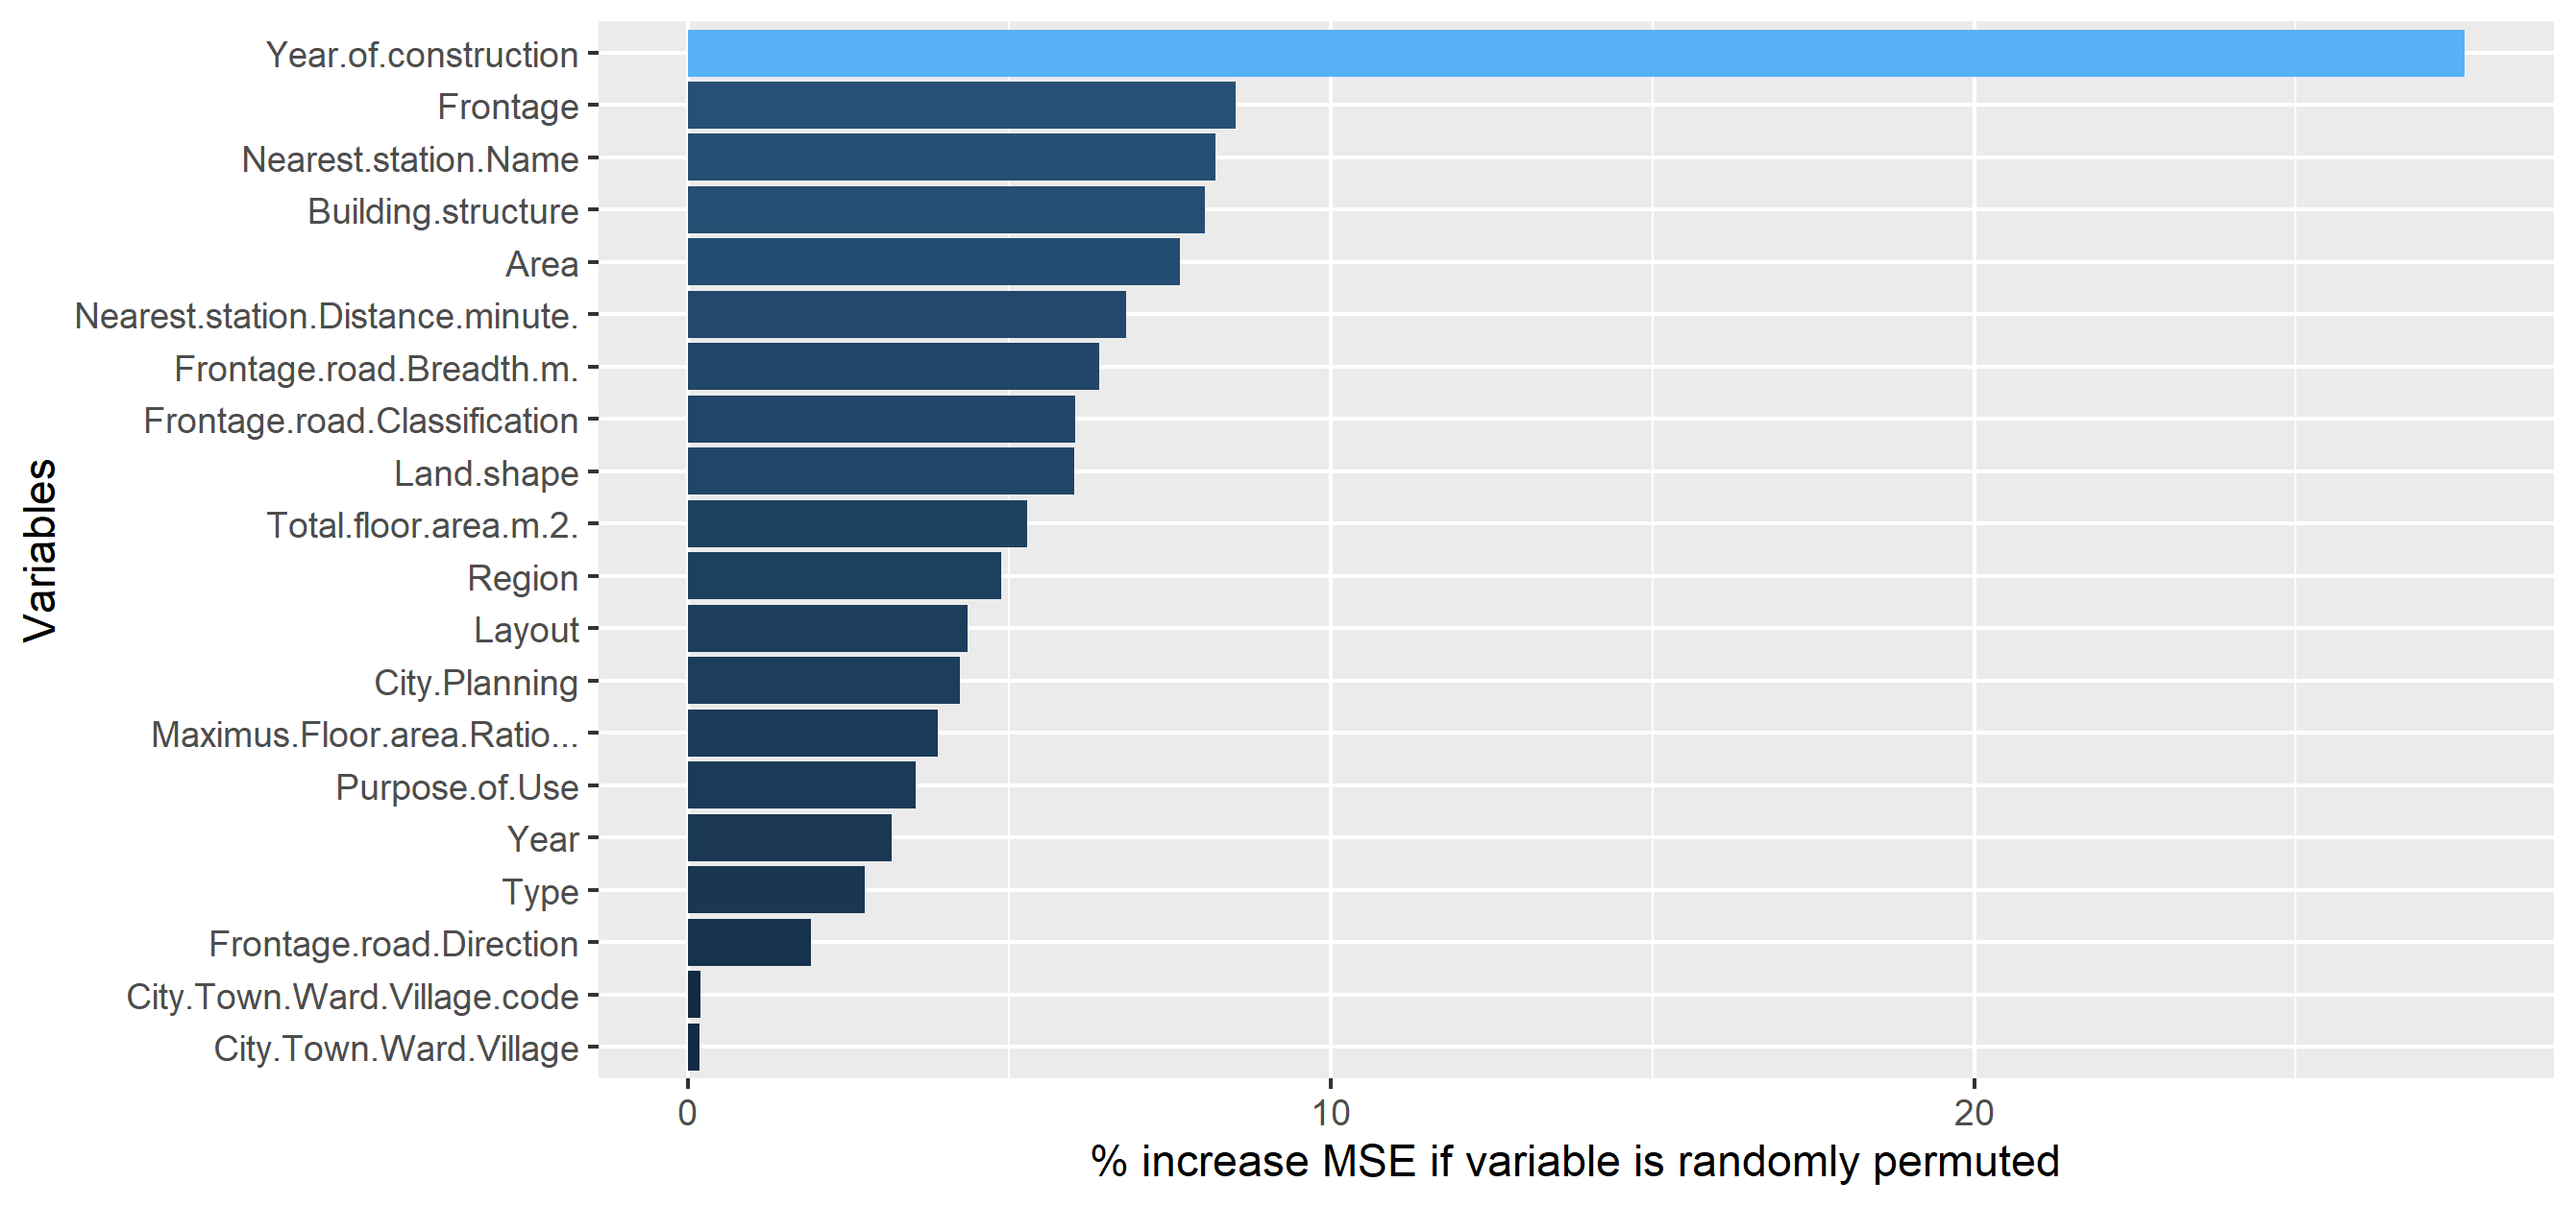
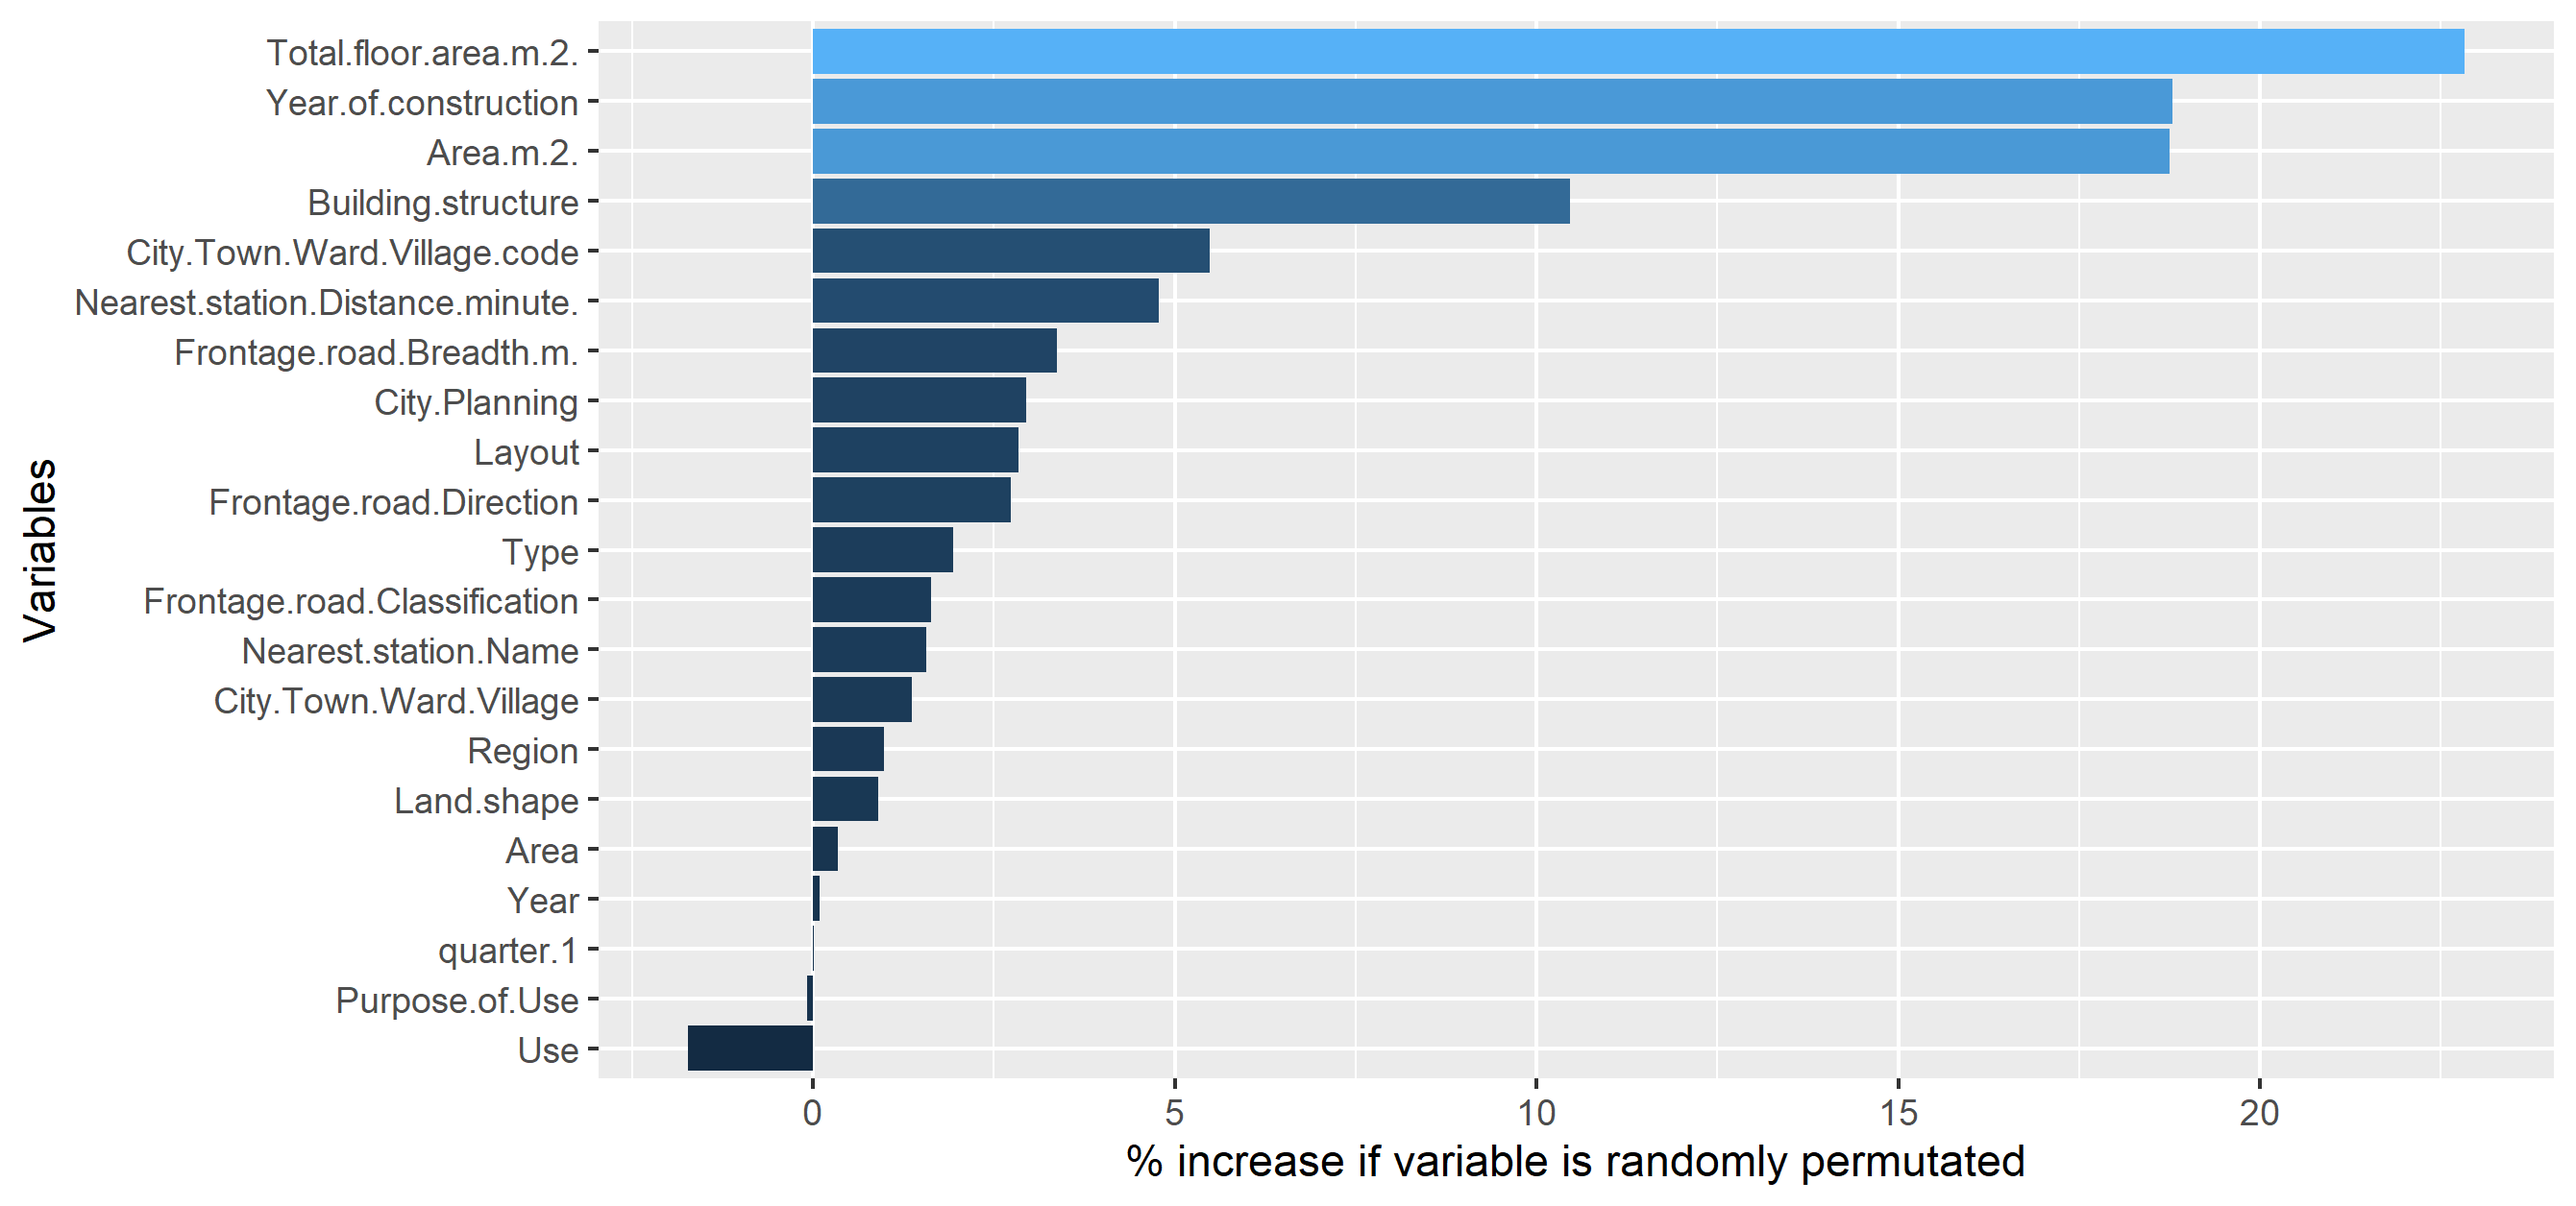
feature engineering

Changed region(s): [[0.031, 0.0, 0.8668, 0.9005], [0.4334, 0.9005, 0.8049, 0.9936], [0.8668, 0.9005, 0.8978, 0.9315]]

diff --git a/README.md b/README.md
@@ -32,6 +32,7 @@ library(psych)
 library(caret)
 library(glmnet)
 library(mice)
+library(gridExtra)
 ```
 
 ## 4.2. Loading csv data into R
@@ -206,10 +207,42 @@ missingcol
 There are 0 variables containing missing values
 ```
 
-I separate test and train data at this step. I will let the test dataset untouched and only use the train dataset in the following stage. Finally, I save wrangled, train and test dataset.
-# 6 Feature engineering
+I separate test and train data at this step. I will let the test dataset untouched and only use the train dataset in the following stage. Finally, I save wrangled, train and test dataset.  
+
+# 6 Indetify and visualize important variables  
 ## 6.1 Factorize data
 I drop the "No" and "Prefecture" variables first. In a version discussing the nationwide price, the "Prefecture" variable will be used. I then factorize all character variables.
 ## 6.2 Identify the important variables by random forest
-Before I perform any further feature engineering, I use random forest method to know which variable is important and deserves more time to be engineered.
+Before performing any further feature engineering, I use random forest method to know which variable is important and deserves more efforts to be engineered. "Year.of.construction", "Type", "Building structure", "City.Town.Ward.Village.code", and "City.Planning" are important features (variables). Interestingly, remove "Use" seems to increase the accuracy of model.    
 
+Random forest result:
+![randomForest](/Result/randomForest.png?raw=true) 
+
+## 6.3 Visualization
+* ### "Total.floor.area.m.2.", "Area.m.2.": I already know both are highly correlated with price but "Total.floor.area.m.2." is more correlated with price (p value of floor area and area is 0.62 and 0.47, respectively). Since both variables are also co-dependent (correlation = 0.7), I will keep "Total.floor.area.m.2." and remove the other. I also identify some outliers and will remove them before modeling. And I notice that fewer house with total floor area larger than 1000 mm2 and also have higher price. I will create another variable to represent those big and expensive houses.
+![Price_floor_area1](/Result/Price_floor_area1.png?raw=true)
+
+* ### "Year.of.Construction", "Year": The price is highly correlated with the year of construction and is also little positively correlated with the year of sold. Therefore, I decide to create another variable representing the house of age. I also decide to create a variable to show the house is new or old when it is sold (Age < 1).   
+![Year](/Result/Year.png?raw=true)
+
+* ### The most important factor variable: "Building.structure": I see there are some houses with rare structrues. I decide to create a variable to represent common and rare structure. I also see there is a trend that house with certain structrues are more expensive. I will create another new variable to represent this trend (e.g., w (stands for woods) are more expensive than RC and SRC). 
+![Structure](/Result/Structure.png?raw=true)  
+
+# 7 Feature engineering
+## 7.1 BigHouse: I first create a variable to represent house with floor area larger than 1000 mm2. And the mean price of big house is significantly than it of small house.
+
+```{r}
+t.test(log10(small_house),log10(big_house))
+
+Welch Two Sample t-test
+
+data:  log10(small_house) and log10(big_house)
+t = -409.51, df = 708.31, p-value < 2.2e-16
+alternative hypothesis: true difference in means is not equal to 0
+95 percent confidence interval:
+ -1.252378 -1.240427
+sample estimates:
+mean of x mean of y 
+ 1.893183  3.139585 
+```  
+![BigHouse](/Result/BigHouse.png?raw=true)  
